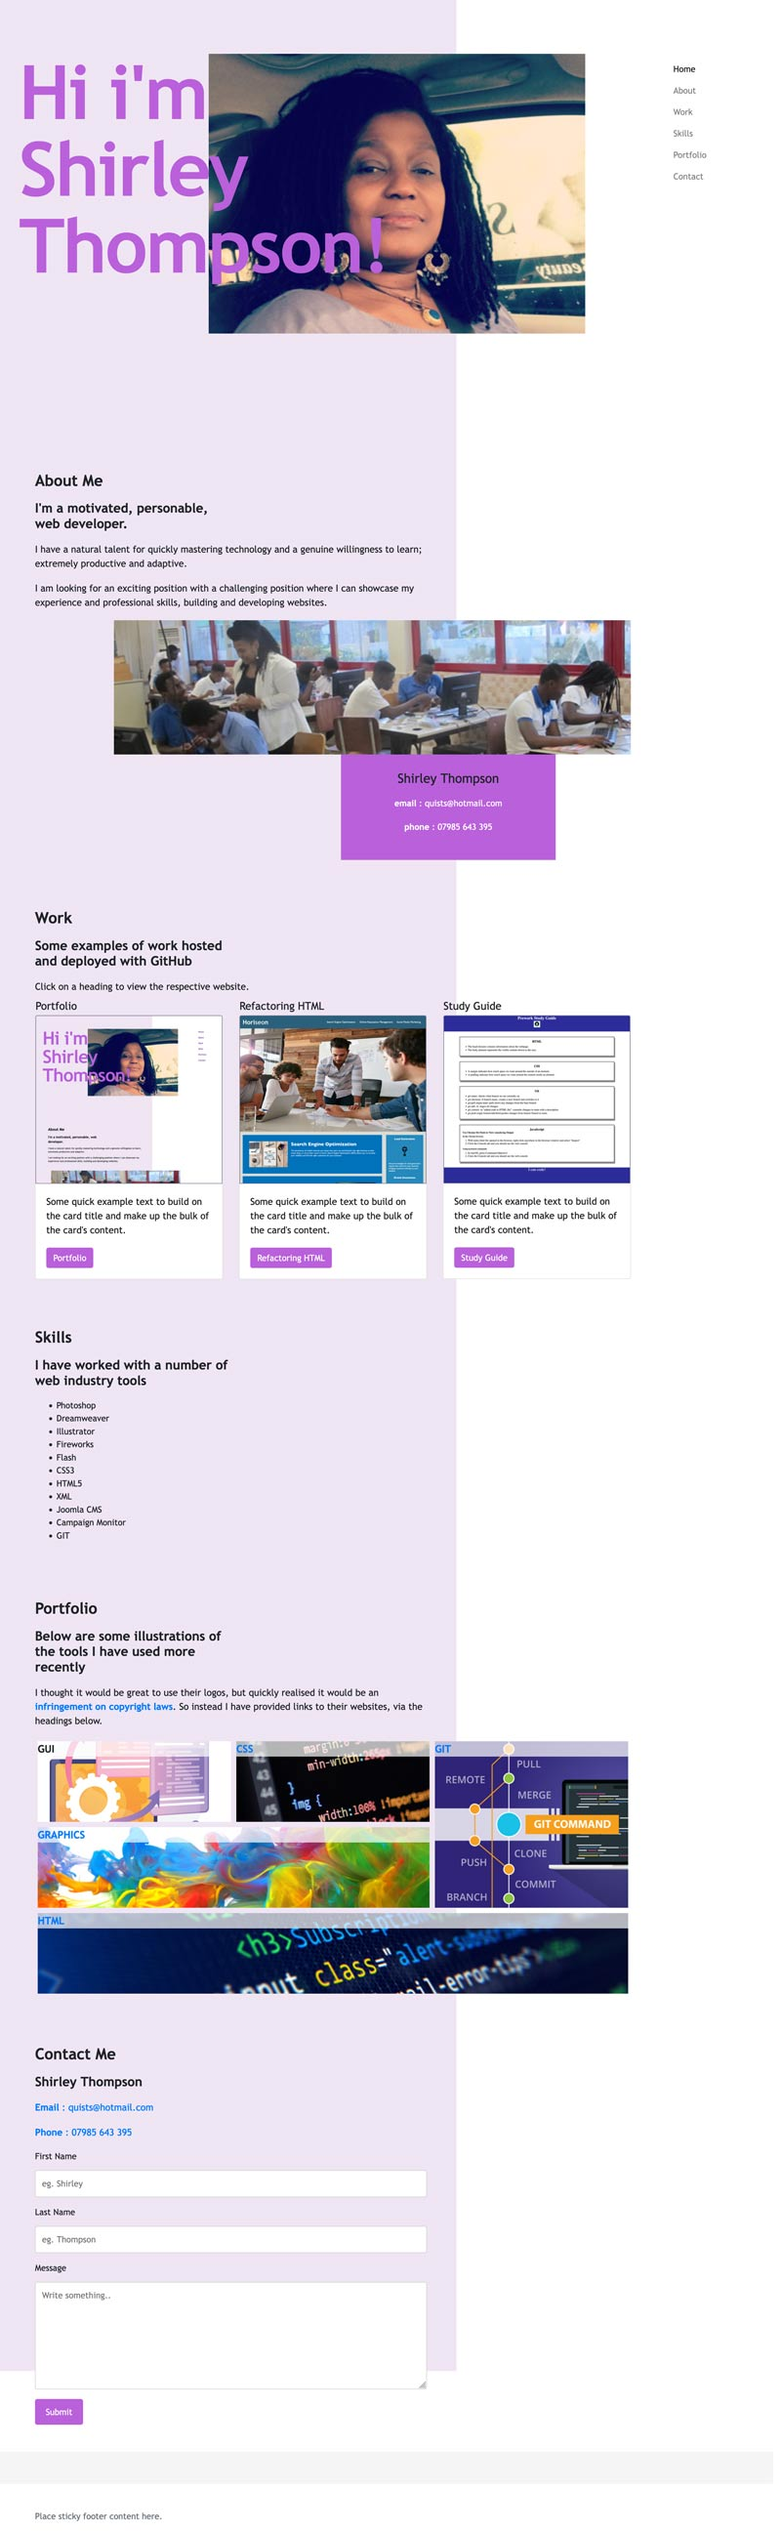
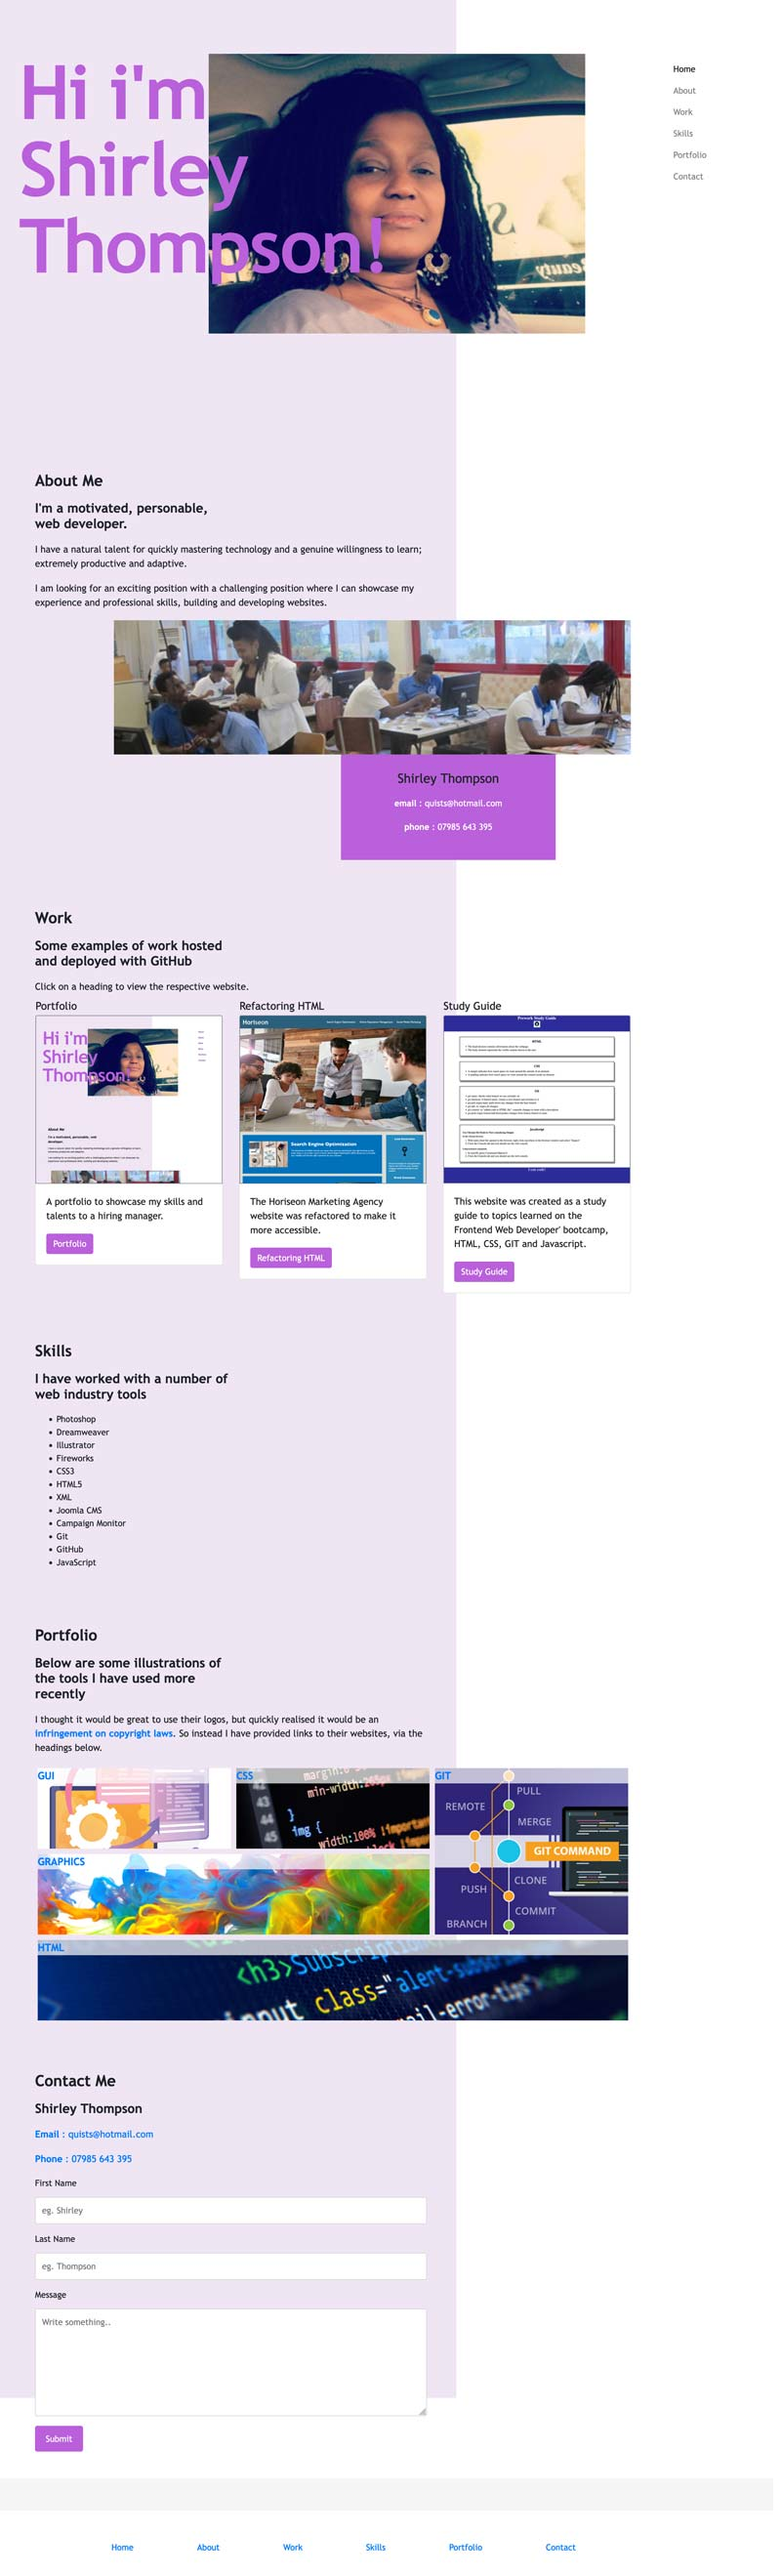
added a footer

diff --git a/index.html b/index.html
@@ -345,7 +345,29 @@
         <!--Footer-->
         <footer class="footer">
           <div class="container">
-            <span class="text-muted">Place sticky footer content here.</span>
+            <span class="text-muted">  <ul class=" flex-row">
+              <li class="nav-item active">
+                <a class="nav-link" href="#">Home <span class="sr-only">(current)</span></a>
+              </li>
+              <li class="nav-item">
+                <a class="nav-link" href="#about">About</a>
+              </li>
+              <li class="nav-item">
+                <a class="nav-link" href="#work">Work</a>
+              </li>
+      
+              <li class="nav-item">
+                <a class="nav-link" href="#skills">Skills</a>
+              </li>
+      
+              <li class="nav-item">
+                <a class="nav-link" href="#portfolio">Portfolio</a>
+              </li>
+      
+              <li class="nav-item">
+                <a class="nav-link" href="#contact">Contact</a>
+              </li>
+            </ul></span>
           </div>
         </footer>
         <!--Footer end-->

diff --git a/assets/css/style.css b/assets/css/style.css
@@ -249,6 +249,12 @@ footer {
   background-color: #f5f5f5;
   margin-top: 50px;
 }
+footer .flex-row{
+  display:flex;
+  flex-direction: row;
+  justify-content: space-evenly;
+  list-style-type:none;
+}
 
 /*---------- Smartphones (portrait and landscape) ----------- */
 @media only screen and (min-device-width : 320px) and (max-device-width : 480px) {
